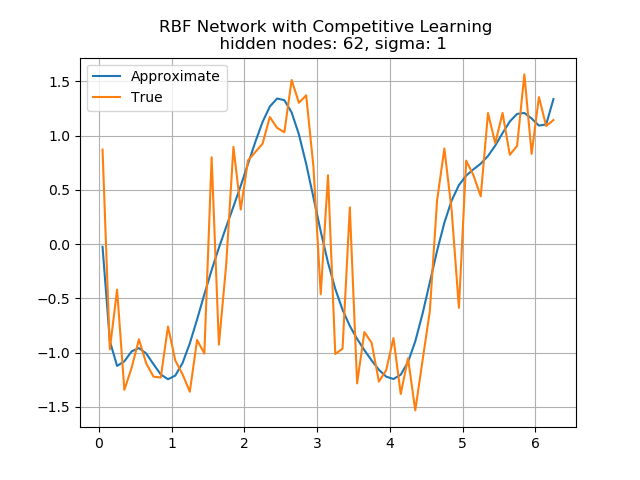
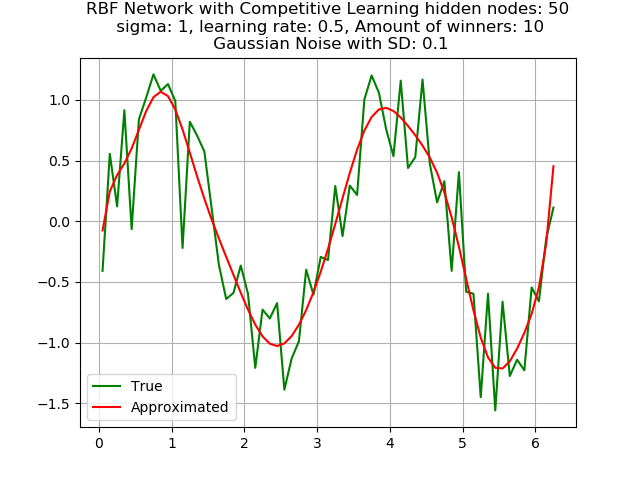
testing error rates

diff --git a/Lab2/Competitive.py b/Lab2/Competitive.py
@@ -8,13 +8,20 @@ nodes = 100
 sigma = 1
 amt_learn = 10
 eta = 0.5
-noise = False
+noise = True
+ball = True
 winners = np.zeros(nodes)
 if noise:
     data_noise = 0.1
 else:
     data_noise = 0
 
+if ball:
+    datapoints = 100
+    feature = 2
+else:
+    datapoints = 63
+    feature = 1
 
 def find_X_closest(x, W, amt=amt_learn):
     """
@@ -106,7 +113,7 @@ def plot_error(nodes, errors):
     plt.plot(nodes, errors, color="blue", label="Error")
 
     plt.title(
-        "Absolute residual error depending on size of the hidden layer\nfor the ball problem, width=" + str(
+        "Absolute residual error depending on size of the hidden layer\n, width=" + str(
             sigma) + ", Data noise (SD): " + str(data_noise))
     plt.xlabel("Amount of Hidden Nodes")
     plt.ylabel("Absolute residual error")
@@ -119,10 +126,18 @@ def network(weights, training, testing, targets_training, targets_test, plot=Fal
     phi = generate_phi_matrix(weights, training)
     W = least_squares(phi, targets_training)
     phi_test_matrix = generate_phi_matrix(weights, testing)
-    total_error = np.abs(np.linalg.norm(phi_test_matrix @ W - targets_test)).mean()
+    sum = 0
+    total_error = np.linalg.norm(phi_test_matrix@W - targets_test, axis=1).mean()
+    print(total_error)
+
     if plot:
-        plt.scatter(testing, phi_test_matrix @ W, label="Approximate")
-        plt.scatter(testing, targets_test, label="True")
+        if ball:
+            plt.scatter(testing, phi_test_matrix @ W, label="Approximate")
+            plt.scatter(testing, targets_test, label="True")
+        else:
+            plt.plot(testing,targets_test, color="green", label="True")
+            plt.plot(testing,phi_test_matrix@W,color="red", label="Approximated")
+
         # plt.scatter(weights.T[0], weights.T[1], label="weights")
         plt.legend()
         plt.title("RBF Network with Competitive Learning hidden nodes: " + str(nodes) + "\n sigma: " + str(
@@ -145,7 +160,7 @@ def error_testing(training, testing, target, target_test):
     global nodes
     errors = []
     amt_nodes = []
-    iters = 10
+    iters = 3
     for i in range(5, nodes, 1):
         print(i)
         sum = 0
@@ -191,9 +206,12 @@ def weight_plot(training_x):
 
 
 if __name__ == "__main__":
-    training_x, training_y = read_file_data("ballist.dat")
-    test_x, test_y = read_file_data("balltest.dat")
+    if ball:
+        training_x, training_y = read_file_data("ballist.dat")
+        test_x, test_y = read_file_data("balltest.dat")
+    else:
+        training_x, test_x, training_y, square2x_target, test_y, square2x_test_target = r.generate_data(noise)
     error_testing(training_x, test_x, training_y, test_y)
-    # weights = competitive_learning(training_x)
+    weights = competitive_learning(training_x)
 
-    # (network(weights, training_x, test_x, training_y, test_y, True))
+    print((network(weights, training_x, test_x, training_y, test_y, False)))
